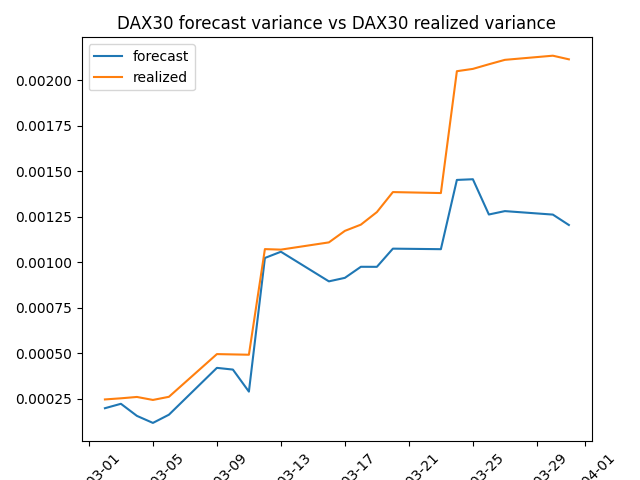
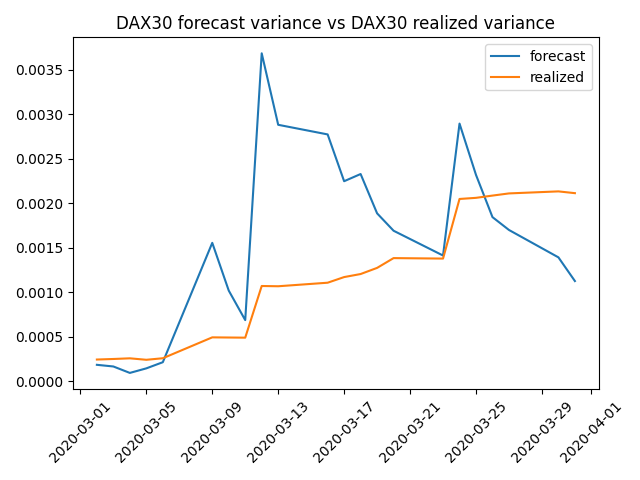
Garch 1,1 + fix savefig

diff --git a/Project.py b/Project.py
@@ -196,7 +196,7 @@ def main():
     # GARCH model rolling window estimation S&P500
 
     # GARCH model specification
-    gm_sp500 = arch_model(sp500_ret, vol='Garch', p=11, q=11, dist='Normal')
+    gm_sp500 = arch_model(sp500_ret, vol='Garch', p=1, q=1, dist='Normal')
 
     # Rolling window estimation
     sp500_index = sp500_ret.index
@@ -243,15 +243,15 @@ def main():
     pyplot.plot(sp500_forecast_real['h.10'], label='forecast')
     pyplot.plot(sp500_forecast_real['Adj Close'], label='realized')
     pyplot.legend()
-    pyplot.tight_layout()
     pyplot.xticks(rotation=45)
+    pyplot.tight_layout()
     pyplot.savefig('Images/sp500_forecast_realized')
     pyplot.close()
 
     # GARCH model rolling window estimation DAX30
 
     # GARCH model specification
-    gm_dax30 = arch_model(dax30_ret, vol='Garch', p=11, q=11, dist='Normal')
+    gm_dax30 = arch_model(dax30_ret, vol='Garch', p=1, q=1, dist='Normal')
 
     # Rolling window estimation
     dax30_index = dax30_ret.index
@@ -297,15 +297,15 @@ def main():
     pyplot.plot(dax30_forecast_real['h.10'], label='forecast')
     pyplot.plot(dax30_forecast_real['Adj Close'], label='realized')
     pyplot.legend()
-    pyplot.tight_layout()
     pyplot.xticks(rotation=45)
+    pyplot.tight_layout()
     pyplot.savefig('Images/dax30_forecast_realized')
     pyplot.close()
 
     # GARCH model rolling window estimation SSE
 
     # GARCH model specification
-    gm_sse = arch_model(sse_ret, vol='Garch', p=11, q=11, dist='Normal')
+    gm_sse = arch_model(sse_ret, vol='Garch', p=1, q=1, dist='Normal')
 
     # Rolling window estimation
     sse_index = sse_ret.index
@@ -350,8 +350,8 @@ def main():
     pyplot.plot(sse_forecast_real['h.10'], label='forecast')
     pyplot.plot(sse_forecast_real['Adj Close'], label='realized')
     pyplot.legend()
-    pyplot.tight_layout()
     pyplot.xticks(rotation=45)
+    pyplot.tight_layout()
     pyplot.savefig('Images/sse_forecast_realized')
     pyplot.close()
 
